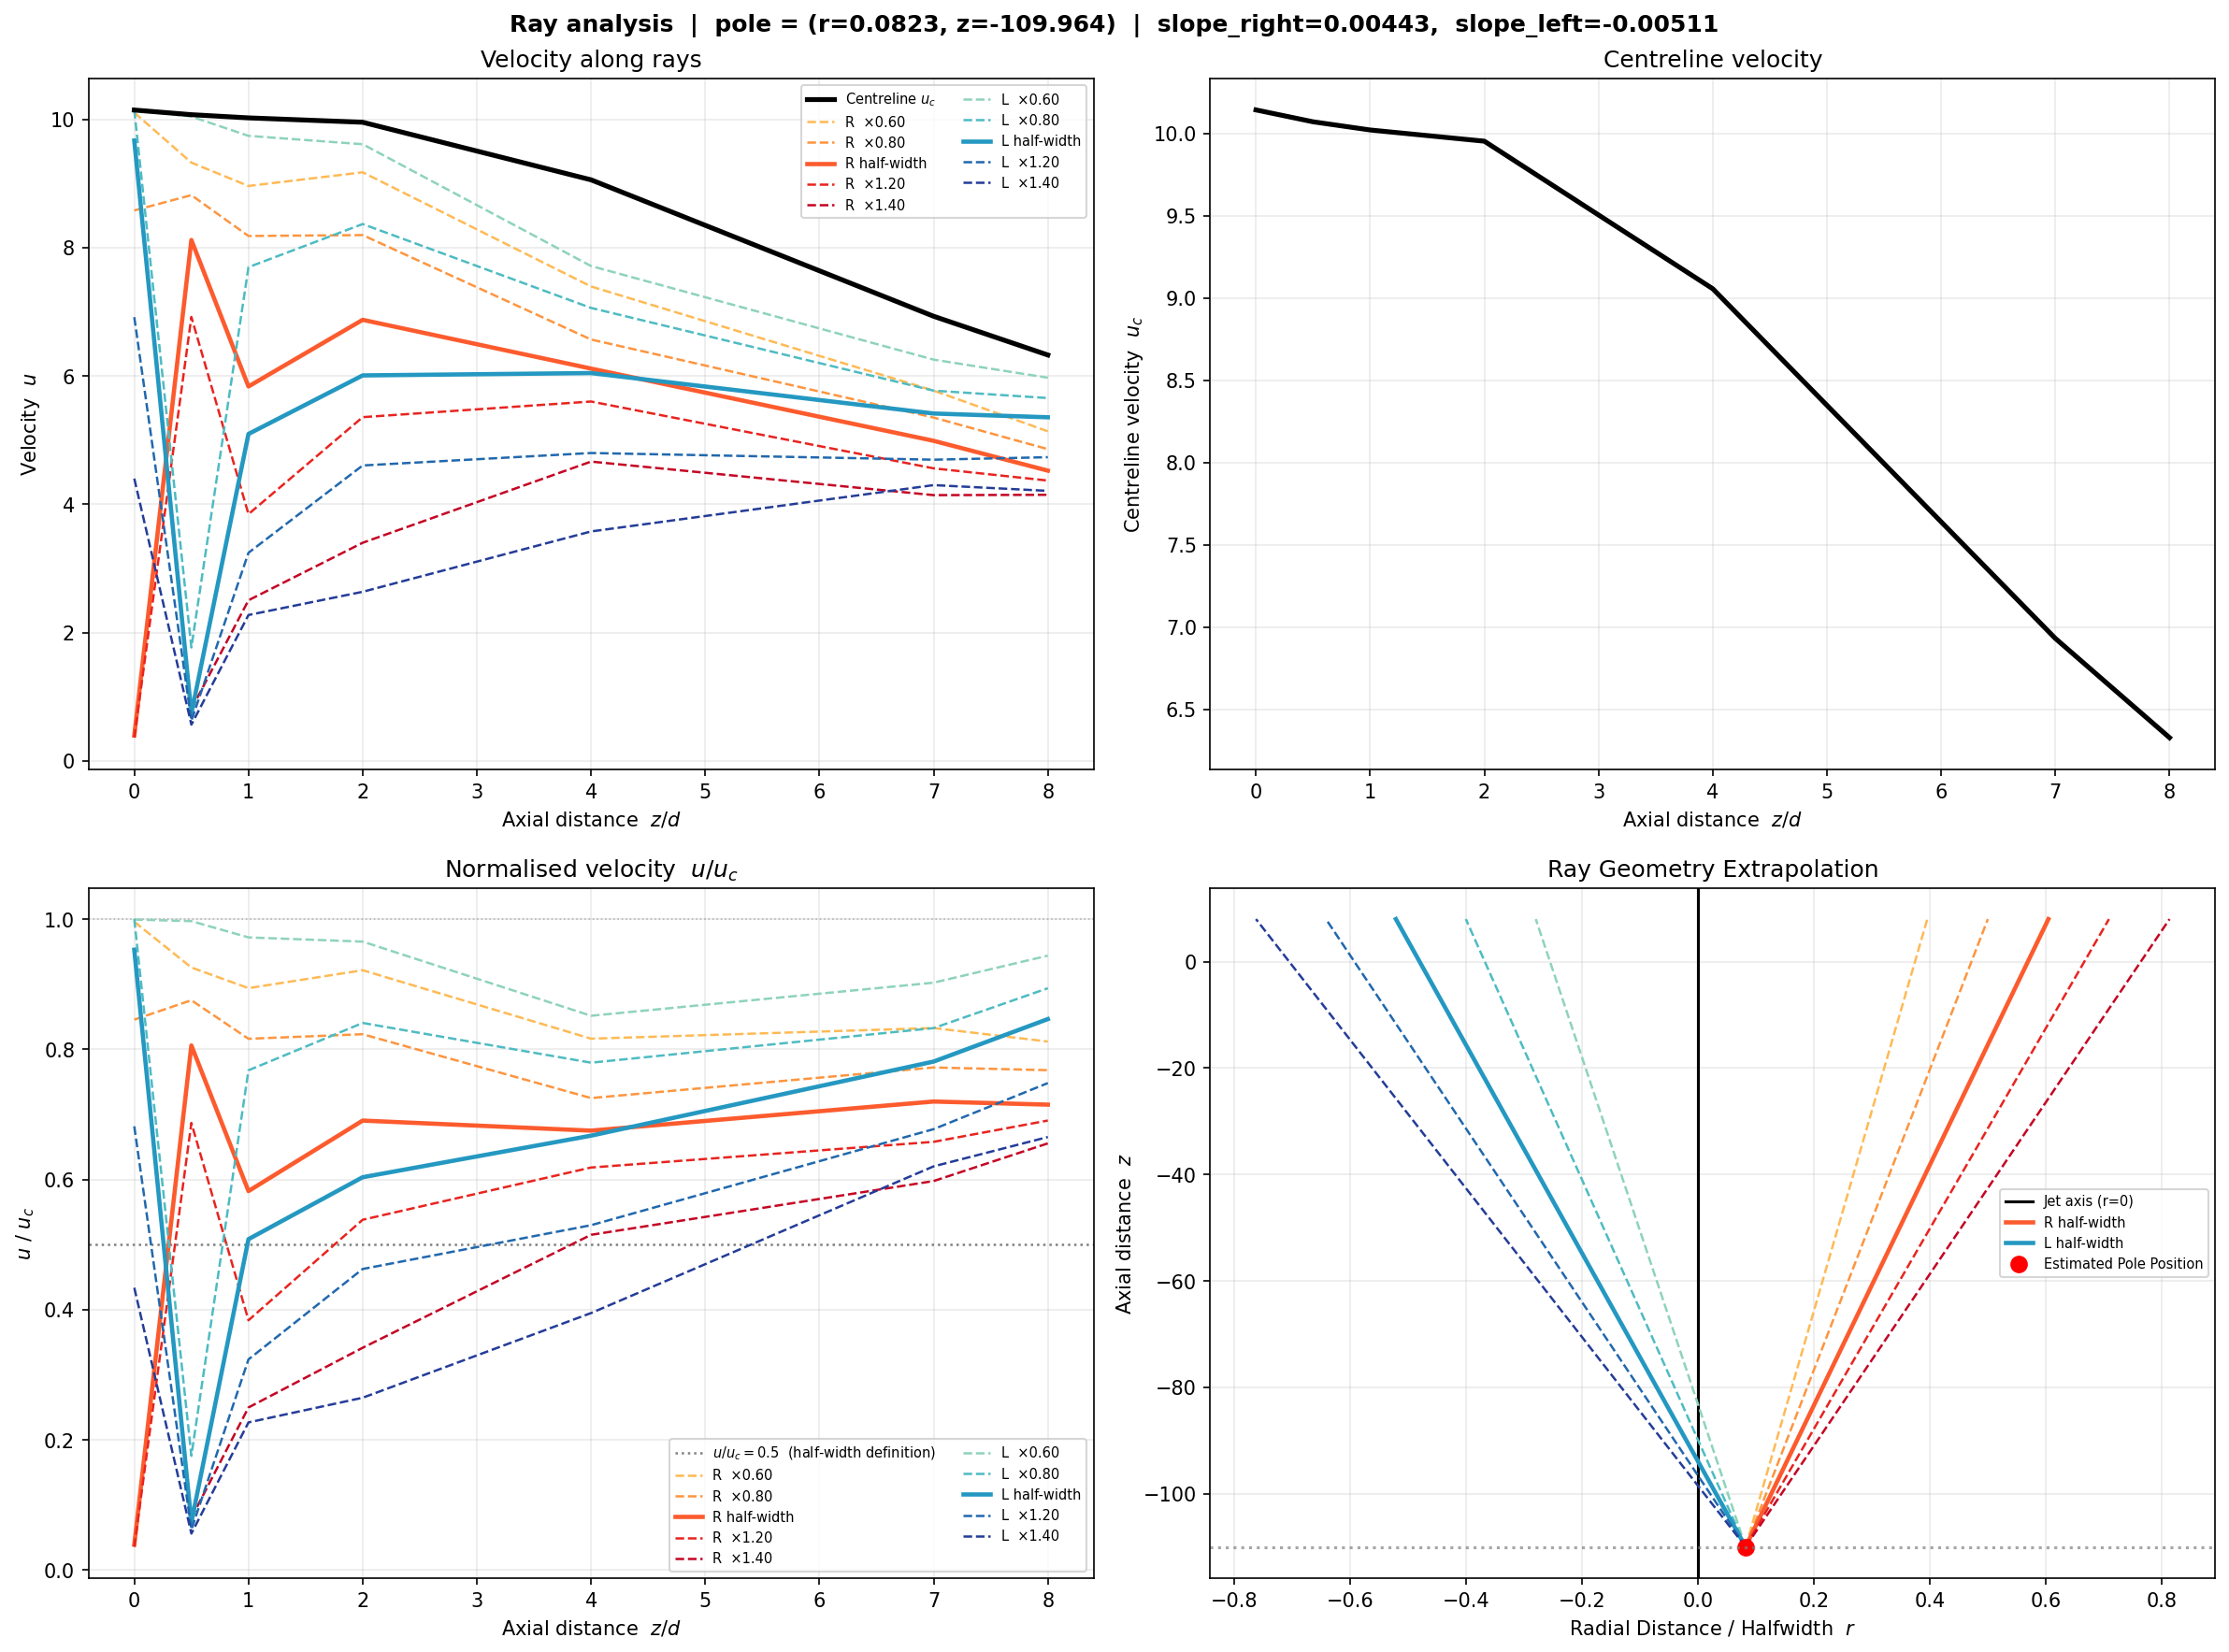
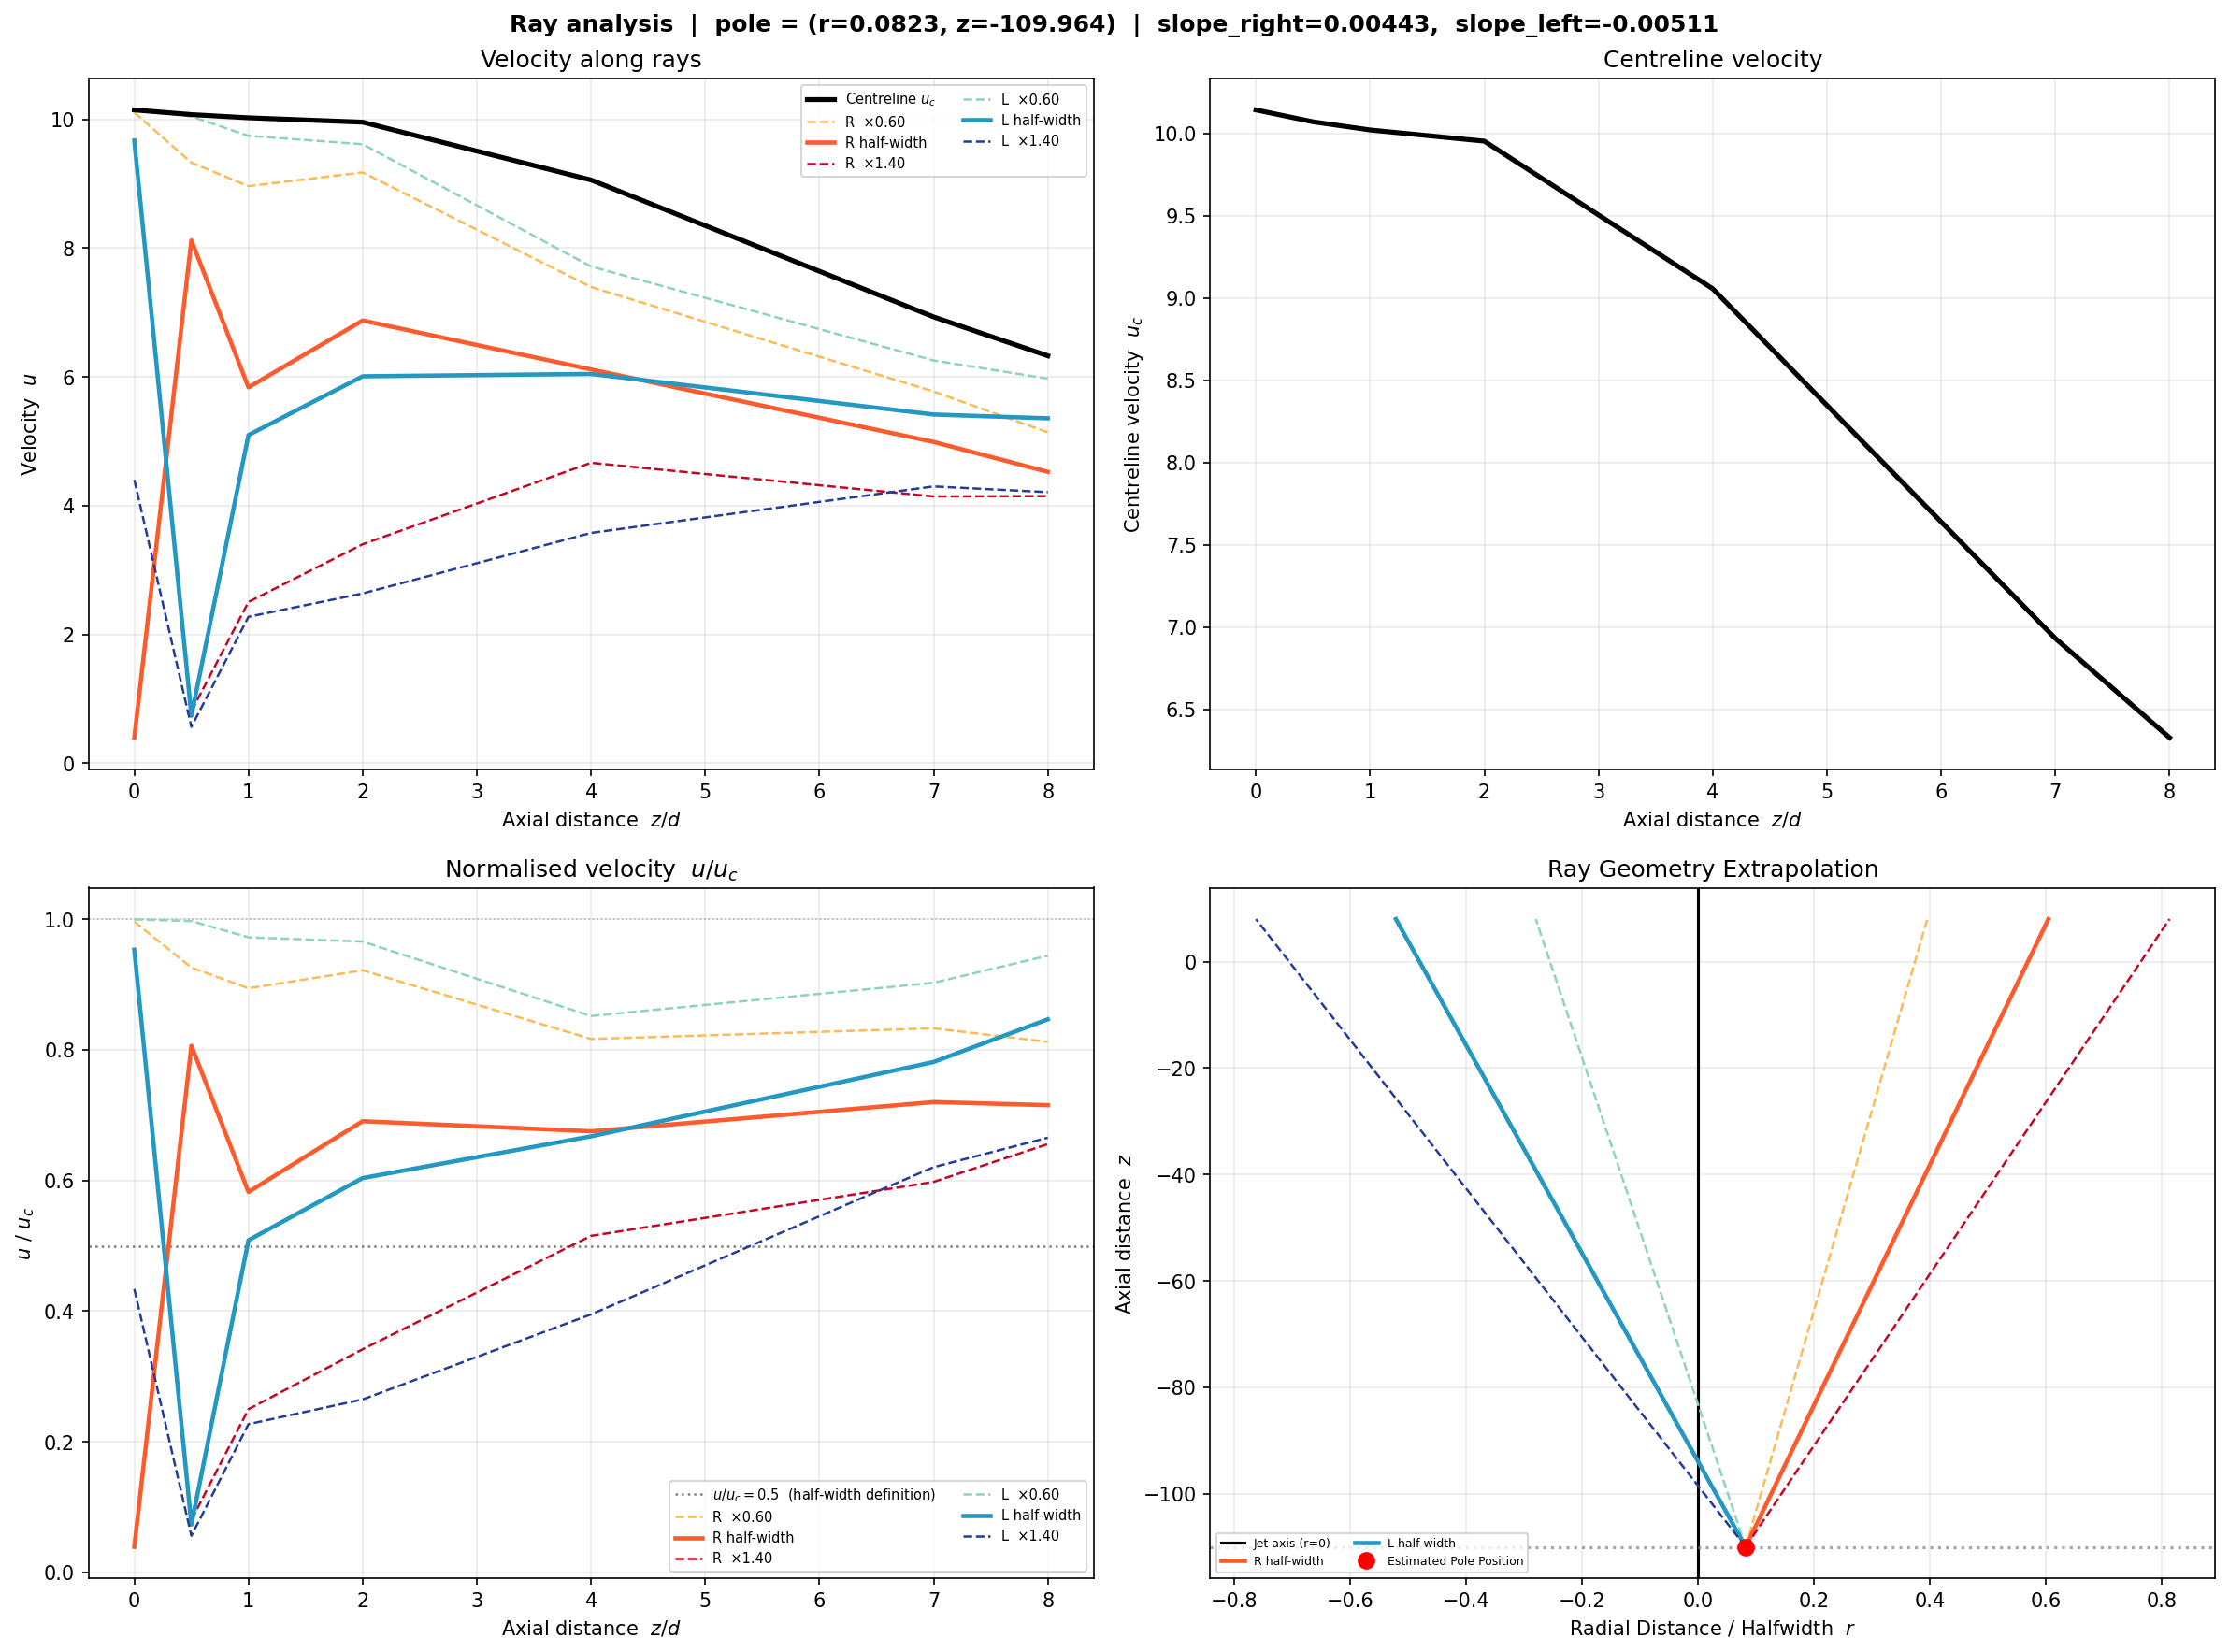
WHOLE LOT OF THINGS HAPPENED

diff --git a/velocity_ray.py b/velocity_ray.py
@@ -7,6 +7,7 @@ Three subplots per figure:
   1. Velocity u along each ray vs axial distance
   2. Centreline velocity u_c vs axial distance
   3. Normalised velocity u / u_c along each ray vs axial distance
+  4. Ray geometry in physical space (optionally overlaid with core/halfwidth data)
 
 10 rays total (5 left, 5 right).  The jet half-width direction is the *central*
 ray on each side; the other four are evenly spread inside / outside it.
@@ -24,6 +25,32 @@ Provided line equations
     Left  half-width:  r = -0.005114219025903502 * z  +  (-0.48011822450086505)
     Right half-width:  r =  0.004427383697712419 * z  +    0.5691104380882352
 
+Overlay option
+--------------
+Pass a dict to `overlay_data` to overlay core/halfwidth scatter and fit lines
+onto the ray geometry subplot (ax4).  Build this dict in your main script:
+
+    from ray_analysis import build_overlay_data, plot_ray_analysis
+
+    overlay = build_overlay_data(
+        axial_dist        = axial_dist,
+        left_core         = left_core,
+        right_core        = right_core,
+        left_halfwidths   = left_halfwidths,
+        right_halfwidths  = right_halfwidths,
+        # core fit lines
+        m_left=m_left, c_left=c_left,
+        m_right=m_right, c_right=c_right,
+        x_intersect=x_intersect, y_intersect=y_intersect,
+        x_inter_left=x_inter_left, x_inter_right=x_inter_right,
+        # halfwidth fit lines
+        m_haleft=m_haleft, c_haleft=c_haleft,
+        m_haright=m_haright, c_haright=c_haright,
+        x_hal_intersect=x_hal_intersect, y_hal_intersect=y_hal_intersect,
+        x_intercept_left=x_intercept_left, x_intercept_right=x_intercept_right,
+    )
+    plot_ray_analysis(cloud, overlay_data=overlay)
+
 Usage
 -----
     from ray_analysis import plot_ray_analysis
@@ -38,7 +65,7 @@ import numpy as np
 import matplotlib.pyplot as plt
 import matplotlib.cm as cm
 from scipy.interpolate import interp1d
-from typing import TYPE_CHECKING
+from typing import TYPE_CHECKING, Any
 from pointcloud import PointCloud
 
 if TYPE_CHECKING:
@@ -53,18 +80,161 @@ _DEFAULT_SLOPE_LEFT  = -0.005114219025903502   # negative → left of centreline
 
 
 # ---------------------------------------------------------------------------
+# Helper: build the overlay_data dict from main-script variables
+# ---------------------------------------------------------------------------
+
+def build_overlay_data(
+    axial_dist: np.ndarray,
+    left_core: np.ndarray,
+    right_core: np.ndarray,
+    left_halfwidths: np.ndarray,
+    right_halfwidths: np.ndarray,
+    # --- core fit ---
+    m_left: float,
+    c_left: float,
+    m_right: float,
+    c_right: float,
+    x_intersect: float,
+    y_intersect: float,
+    x_inter_left: float,
+    x_inter_right: float,
+    # --- halfwidth fit ---
+    m_haleft: float,
+    c_haleft: float,
+    m_haright: float,
+    c_haright: float,
+    x_hal_intersect: float,
+    y_hal_intersect: float,
+    x_intercept_left: float,
+    x_intercept_right: float,
+) -> dict[str, Any]:
+    """
+    Convenience function to bundle all combined-graph arrays into the dict
+    expected by plot_ray_analysis(overlay_data=...).
+
+    All parameters match the variable names used in the original main script.
+    Returns a dict that can be passed directly to plot_ray_analysis.
+    """
+    return dict(
+        axial_dist        = np.asarray(axial_dist),
+        left_core         = np.asarray(left_core),
+        right_core        = np.asarray(right_core),
+        left_halfwidths   = np.asarray(left_halfwidths),
+        right_halfwidths  = np.asarray(right_halfwidths),
+        m_left            = float(m_left),
+        c_left            = float(c_left),
+        m_right           = float(m_right),
+        c_right           = float(c_right),
+        x_intersect       = float(x_intersect),
+        y_intersect       = float(y_intersect),
+        x_inter_left      = float(x_inter_left),
+        x_inter_right     = float(x_inter_right),
+        m_haleft          = float(m_haleft),
+        c_haleft          = float(c_haleft),
+        m_haright         = float(m_haright),
+        c_haright         = float(c_haright),
+        x_hal_intersect   = float(x_hal_intersect),
+        y_hal_intersect   = float(y_hal_intersect),
+        x_intercept_left  = float(x_intercept_left),
+        x_intercept_right = float(x_intercept_right),
+    )
+
+
+# ---------------------------------------------------------------------------
+# Internal: draw the combined-graph overlay onto an existing Axes
+# ---------------------------------------------------------------------------
+
+def _draw_combined_overlay(ax: plt.Axes, od: dict[str, Any]) -> None:
+    """
+    Reproduce the "messy combined graph" (vertical orientation, r on x-axis,
+    z on y-axis) on top of the ray geometry subplot.
+
+    Scatter points, fit-line extrapolations, collapse/pole markers, and
+    reference lines are all added with reduced alpha so they sit behind the
+    ray fan without obscuring it.
+    """
+    axial_dist       = od["axial_dist"]
+    left_core        = od["left_core"]
+    right_core       = od["right_core"]
+    left_halfwidths  = od["left_halfwidths"]
+    right_halfwidths = od["right_halfwidths"]
+
+    m_left, c_left   = od["m_left"],   od["c_left"]
+    m_right, c_right = od["m_right"],  od["c_right"]
+    x_intersect      = od["x_intersect"]
+    y_intersect      = od["y_intersect"]
+    x_inter_left     = od["x_inter_left"]
+    x_inter_right    = od["x_inter_right"]
+
+    m_haleft,  c_haleft  = od["m_haleft"],  od["c_haleft"]
+    m_haright, c_haright = od["m_haright"], od["c_haright"]
+    x_hal_intersect  = od["x_hal_intersect"]
+    y_hal_intersect  = od["y_hal_intersect"]
+    x_intercept_left  = od["x_intercept_left"]
+    x_intercept_right = od["x_intercept_right"]
+
+    # ---- shared extrapolation domain ----
+    z_max_core = x_intersect * 1.2
+    x_extrap_core = np.linspace(0, z_max_core, 100)
+    x_extrap_half = np.linspace(x_hal_intersect * 1.2, 100, 101)
+
+    # ---- core scatter & fits ----
+    ax.scatter(left_core,  axial_dist, color="steelblue",  s=25, alpha=0.55,
+               zorder=2, label="Left core (data)")
+    ax.scatter(right_core, axial_dist, color="darkorange", s=25, alpha=0.55,
+               zorder=2, label="Right core (data)")
+    ax.plot(m_left  * x_extrap_core + c_left,  x_extrap_core,
+            color="steelblue",  ls="--", lw=1.2, alpha=0.6,
+            label="Left core fit")
+    ax.plot(m_right * x_extrap_core + c_right, x_extrap_core,
+            color="darkorange", ls="--", lw=1.2, alpha=0.6,
+            label="Right core fit")
+    ax.scatter(y_intersect, x_intersect, color="red", s=60, zorder=5,
+               label=f"Core collapse  z={x_intersect:.1f}")
+
+    # ---- halfwidth scatter & fits ----
+    ax.scatter(left_halfwidths,  axial_dist, color="mediumseagreen", s=25,
+               alpha=0.55, zorder=2, label="Left halfwidth (data)")
+    ax.scatter(right_halfwidths, axial_dist, color="mediumpurple",   s=25,
+               alpha=0.55, zorder=2, label="Right halfwidth (data)")
+    ax.plot(m_haleft  * x_extrap_half + c_haleft,  x_extrap_half,
+            color="mediumseagreen", ls="--", lw=1.2, alpha=0.6,
+            label="Left halfwidth fit")
+    ax.plot(m_haright * x_extrap_half + c_haright, x_extrap_half,
+            color="mediumpurple",   ls="--", lw=1.2, alpha=0.6,
+            label="Right halfwidth fit")
+    ax.scatter(y_hal_intersect, x_hal_intersect, color="red",
+               marker="^", s=70, zorder=5,
+               label=f"Halfwidth pole  z={x_hal_intersect:.1f}")
+
+    # ---- pole / outlet reference lines ----
+    ax.axhline(y=0,                 color="gray",  ls="--", lw=0.8,
+               alpha=0.5, label="Jet outlet  (z=0)")
+    ax.axhline(y=x_inter_left,      color="blue",  ls=":",  lw=0.9,
+               alpha=0.6, label=f"Core pole L  z={x_inter_left:.1f}")
+    ax.axhline(y=x_inter_right,     color="green", ls=":",  lw=0.9,
+               alpha=0.6, label=f"Core pole R  z={x_inter_right:.1f}")
+    ax.axhline(y=x_intercept_left,  color="blue",  ls="-.", lw=0.9,
+               alpha=0.6, label=f"HW pole L  z={x_intercept_left:.1f}")
+    ax.axhline(y=x_intercept_right, color="green", ls="-.", lw=0.9,
+               alpha=0.6, label=f"HW pole R  z={x_intercept_right:.1f}")
+    ax.axvline(x=0,                 color="gray",  ls="--", lw=0.8, alpha=0.5)
+
+
+# ---------------------------------------------------------------------------
 # Public entry point
 # ---------------------------------------------------------------------------
 
 def plot_ray_analysis(
     cloud,
     pole: tuple[float, float] = (0.0823, -109.964),
-    n_rays: int = 5,
+    n_rays: int = 3,
     slope_half_spread: float = 0.4,
     vel_attr: str = "velocity_mean",
     fig_path: str | None = "ray_analysis.png",
     slope_hw_right: float | None = None,
     slope_hw_left:  float | None = None,
+    overlay_data: dict[str, Any] | None = None,
 ) -> plt.Figure:
     """
     Parameters
@@ -85,6 +255,11 @@ def plot_ray_analysis(
                         default from the provided line fit.
     slope_hw_left     : dr/dz for the left halfwidth ray (expected negative).
                         If None, uses the default from the provided line fit.
+    overlay_data      : dict produced by build_overlay_data().  When supplied,
+                        the core radius and halfwidth scatter, fit lines, and
+                        reference markers from the combined graph are drawn
+                        behind the ray fan in the geometry subplot (ax4).
+                        Pass None (default) to show the clean ray geometry only.
     """
     if n_rays % 2 == 0:
         raise ValueError("n_rays must be odd so the half-width ray is the centre.")
@@ -176,7 +351,7 @@ def plot_ray_analysis(
             u_norm = us / uc_ray
         return zs, us, u_norm
 
-  # ------------------------------------------------------------------
+    # ------------------------------------------------------------------
     # 5.  Plot
     # ------------------------------------------------------------------
     fig, axes = plt.subplots(2, 2, figsize=(16, 12))
@@ -260,8 +435,12 @@ def plot_ray_analysis(
     ax3.grid(True, alpha=0.25)
 
     # ---- Subplot 4 : Ray Geometry in Physical Space ------------------
-    z_max = max(z_vals) if z_vals else 100
-    z_extrap = np.linspace(pole_z, z_max, 100)
+    z_max = max(z_vals) if z_vals else 300
+    z_extrap = np.linspace(pole_z, z_max, 300)
+
+    # Draw combined-graph data first (behind rays) when overlay supplied
+    if overlay_data is not None:
+        _draw_combined_overlay(ax4, overlay_data)
 
     ax4.axvline(0, color="k", lw=1.5, label="Jet axis (r=0)")
 
@@ -279,17 +458,20 @@ def plot_ray_analysis(
         ax4.plot(r_line, z_extrap, color=c_left[i], lw=lw, ls=ls,
                  label=ray_label("L", i) if i == hw_idx else "")
 
-    ax4.plot(pole_r, pole_z, 'ro', markersize=8, label="Estimated Pole Position")
+    ax4.plot(pole_r, pole_z, 'ro', markersize=8, zorder=6,
+             label="Estimated Pole Position")
     ax4.axhline(pole_z, color="grey", ls=":", alpha=0.7)
 
     ax4.set_xlabel("Radial Distance / Halfwidth  $r$")
     ax4.set_ylabel("Axial distance  $z$")
-    ax4.set_title("Ray Geometry Extrapolation")
-    
-    # Filter duplicate legend labels
+    overlay_suffix = " + combined graph" if overlay_data is not None else ""
+    ax4.set_title(f"Ray Geometry Extrapolation{overlay_suffix}")
+
+    # Deduplicate legend entries
     handles, labels = ax4.get_legend_handles_labels()
     by_label = dict(zip(labels, handles))
-    ax4.legend(by_label.values(), by_label.keys(), fontsize=7)
+    ax4.legend(by_label.values(), by_label.keys(),
+               fontsize=6, ncol=2, loc="best")
     ax4.grid(True, alpha=0.25)
 
     plt.tight_layout()
@@ -299,9 +481,80 @@ def plot_ray_analysis(
         print(f"Figure saved → {fig_path}")
 
     plt.show()
+
+    # ---- Subplot 3 : normalised velocity u / u_c ---------------------
+    plt.plot()
+    plt.axhline(0.5, color="grey", ls=":", lw=1.2,
+                label="$u/u_c = 0.5$  (half-width definition)")
+    plt.axhline(1.0, color="grey", ls=":", lw=0.8, alpha=0.5)
+
+    for i, slope in enumerate(right_slopes):
+        zs, _, u_norm = ray_data(slope)
+        lw = 2.2 if i == hw_idx else 1.2
+        ls = "-"  if i == hw_idx else "--"
+        plt.plot(zs, u_norm, color=c_right[i], lw=lw, ls=ls,
+                    label=ray_label("R", i))
+
+    for i, slope in enumerate(left_slopes):
+        zs, _, u_norm = ray_data(slope)
+        lw = 2.2 if i == hw_idx else 1.2
+        ls = "-"  if i == hw_idx else "--"
+        plt.plot(zs, u_norm, color=c_left[i], lw=lw, ls=ls,
+                    label=ray_label("L", i))
+
+    plt.xlabel("Axial distance  $z/d$")
+    plt.ylabel("$u \\ / \\ u_c$")
+    plt.title("Normalised velocity  $u/u_c$")
+    plt.legend(fontsize=7, ncol=2)
+    plt.grid(True, alpha=0.25)
+    plt.show()
+
+    plt.plot()
+    z_max = max(z_vals) if z_vals else 100
+    z_extrap = np.linspace(pole_z, z_max, 100)
+
+    # Draw combined-graph data first (behind rays) when overlay supplied
+    if overlay_data is not None:
+        _draw_combined_overlay(ax4, overlay_data)
+
+    plt.axvline(0, color="k", lw=1.5, label="Jet axis (r=0)")
+
+    for i, slope in enumerate(right_slopes):
+        r_line = pole_r + slope * (z_extrap - pole_z)
+        lw = 2.2 if i == hw_idx else 1.2
+        ls = "-"  if i == hw_idx else "--"
+        plt.plot(r_line, z_extrap, color=c_right[i], lw=lw, ls=ls,
+                 label=ray_label("R", i) if i == hw_idx else "")
+
+    for i, slope in enumerate(left_slopes):
+        r_line = pole_r + slope * (z_extrap - pole_z)
+        lw = 2.2 if i == hw_idx else 1.2
+        ls = "-"  if i == hw_idx else "--"
+        plt.plot(r_line, z_extrap, color=c_left[i], lw=lw, ls=ls,
+                 label=ray_label("L", i) if i == hw_idx else "")
+
+    plt.plot(pole_r, pole_z, 'ro', markersize=8, zorder=6,
+             label="Estimated Pole Position")
+    plt.axhline(pole_z, color="grey", ls=":", alpha=0.7)
+
+    plt.xlabel("Radial Distance / Halfwidth  $r$")
+    plt.ylabel("Axial distance  $z$")
+    overlay_suffix = " + combined graph" if overlay_data is not None else ""
+    plt.title(f"Ray Geometry Extrapolation{overlay_suffix}")
+
+    # Deduplicate legend entries
+    handles, labels = ax4.get_legend_handles_labels()
+    by_label = dict(zip(labels, handles))
+    plt.legend(by_label.values(), by_label.keys(),
+               fontsize=6, ncol=2, loc="best")
+    plt.grid(True, alpha=0.25)
+    plt.show()
     return fig
+
+
 
 if __name__ == "__main__":
     cloud = PointCloud()
     cloud.read_test_data()
-    plot_ray_analysis(cloud)    
+    plot_ray_analysis(cloud)
+

diff --git a/pointcloud_test.py b/pointcloud_test.py
@@ -320,3 +320,24 @@ plt.ylabel("Axial Distance")
 
 plt.legend(loc='lower left', fontsize='small')
 plt.show()
+
+from velocity_ray import build_overlay_data, plot_ray_analysis
+
+overlay = build_overlay_data(
+    axial_dist=axial_dist,
+    left_core=left_core,         right_core=right_core,
+    left_halfwidths=left_halfwidths, right_halfwidths=right_halfwidths,
+    m_left=m_left,   c_left=c_left,
+    m_right=m_right, c_right=c_right,
+    x_intersect=x_intersect,   y_intersect=y_intersect,
+    x_inter_left=x_inter_left, x_inter_right=x_inter_right,
+    m_haleft=m_haleft,   c_haleft=c_haleft,
+    m_haright=m_haright, c_haright=c_haright,
+    x_hal_intersect=x_hal_intersect, y_hal_intersect=y_hal_intersect,
+    x_intercept_left=x_intercept_left, x_intercept_right=x_intercept_right,
+)
+
+cloud = PointCloud()
+cloud.read_test_data()
+plot_ray_analysis(cloud, overlay_data=overlay)   # with overlay
+plot_ray_analysis(cloud)                          # clean version unchanged